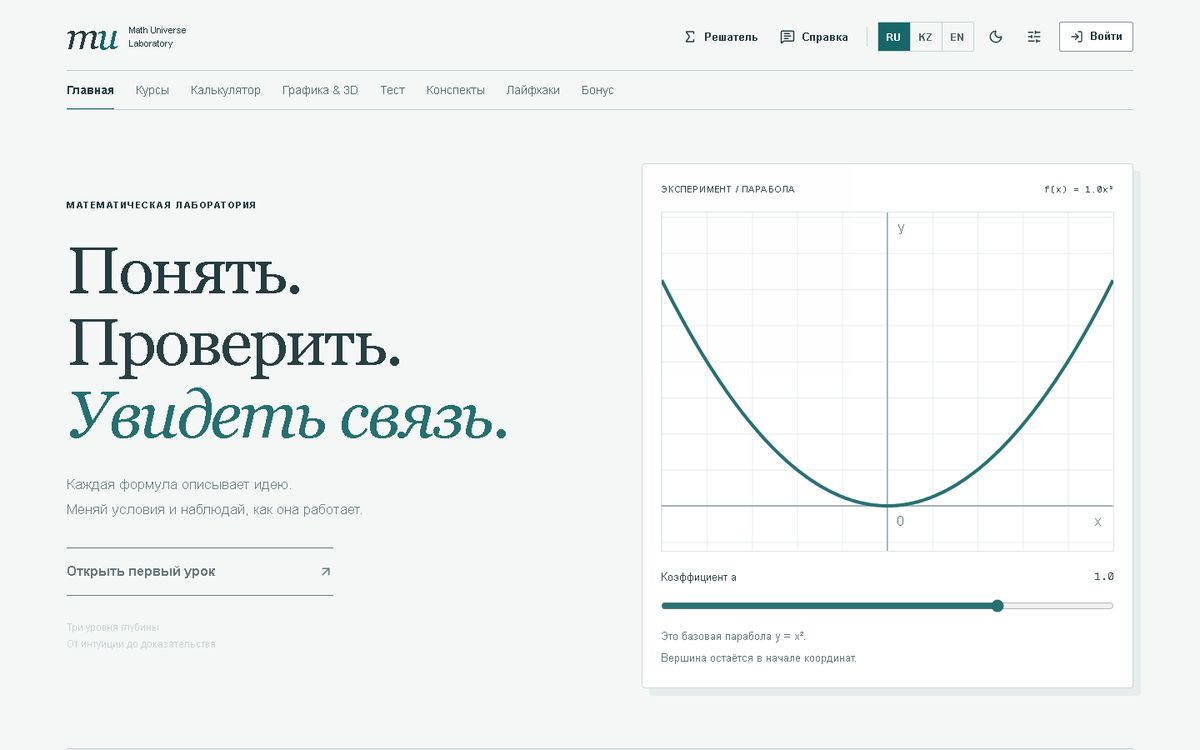
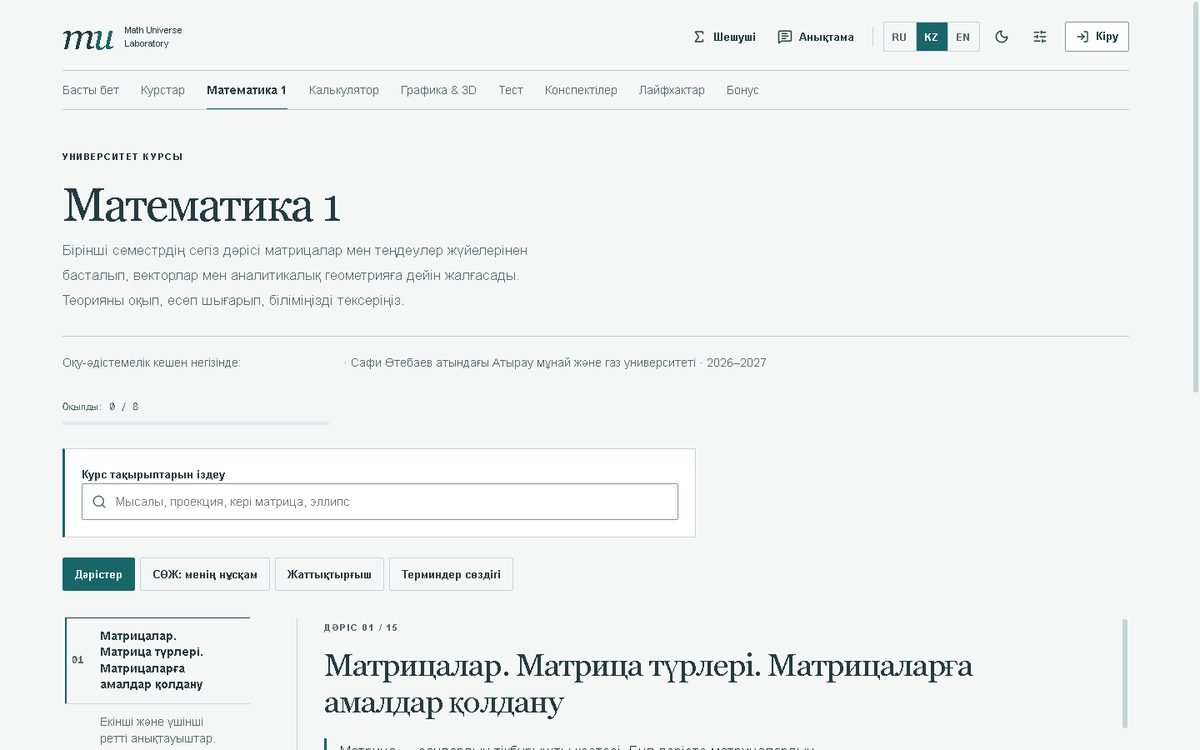
Refresh Math Universe preview to show the Mathematics 1 course
Teacher's name masked in the screenshot. Version tags on content.js and
the preview image so visitors get the update without waiting for cache.

diff --git a/index.html b/index.html
@@ -312,7 +312,7 @@ h1{font-size:clamp(34px,4.6vw,48px);line-height:1.05;letter-spacing:-.035em;font
 
 <noscript><p style="max-width:640px;margin:40px auto;color:#B4BDCC;padding:0 16px">This resume needs JavaScript. A PDF version is available: <a href="resume-en.pdf" style="color:#D4AF65">resume-en.pdf</a></p></noscript>
 
-<script src="content.js"></script>
+<script src="content.js?v=20261113"></script>
 <script>
 (function(){
   const R = window.RESUME, S = R.shared;

diff --git a/content.js b/content.js
@@ -20,7 +20,7 @@ window.RESUME = {
     featured: [
       {
         title: "Math Universe",
-        image: "assets/preview-math-universe.jpg",
+        image: "assets/preview-math-universe.jpg?v=20261113",
         live: "https://bekasyl-karshygauly.github.io/math-universe/",
         repo: "https://github.com/bekasyl-karshygauly/math-universe",
         tags: ["Next.js", "TypeScript", "Supabase", "KaTeX"],
